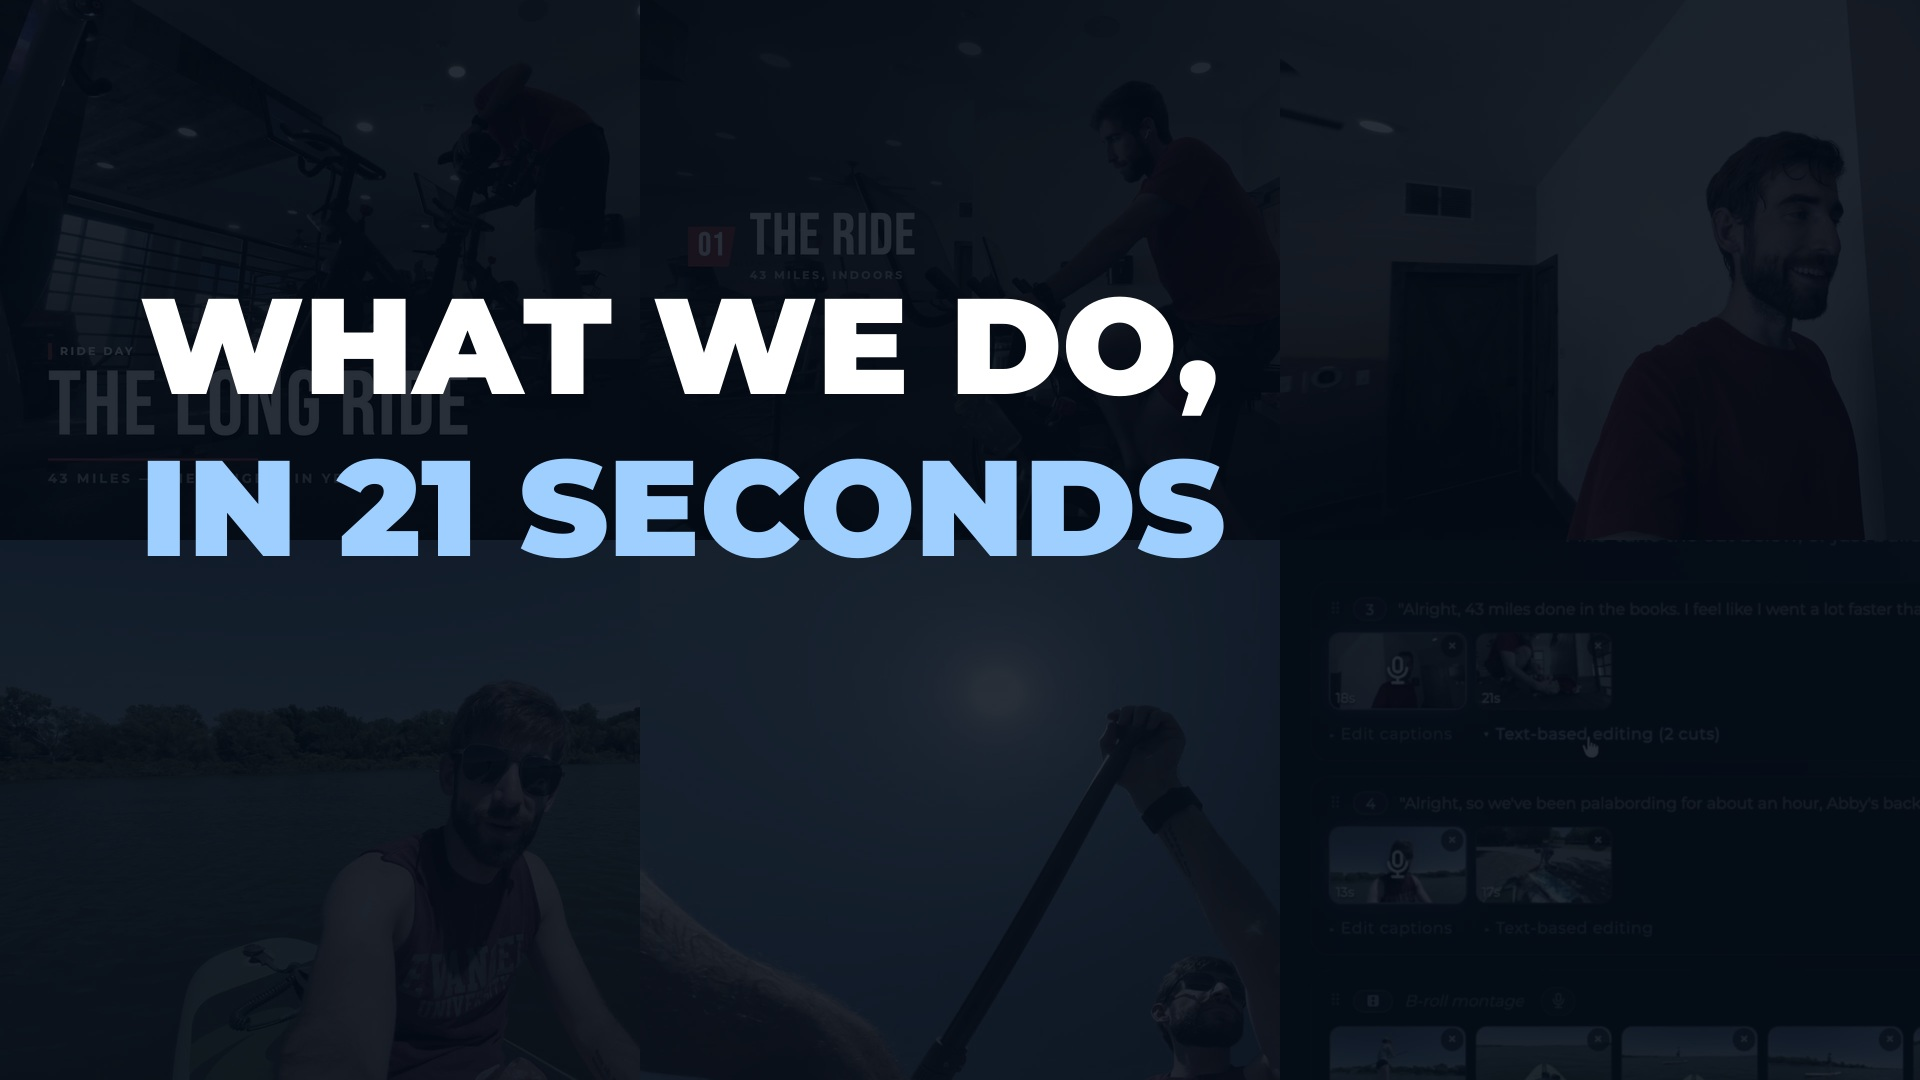
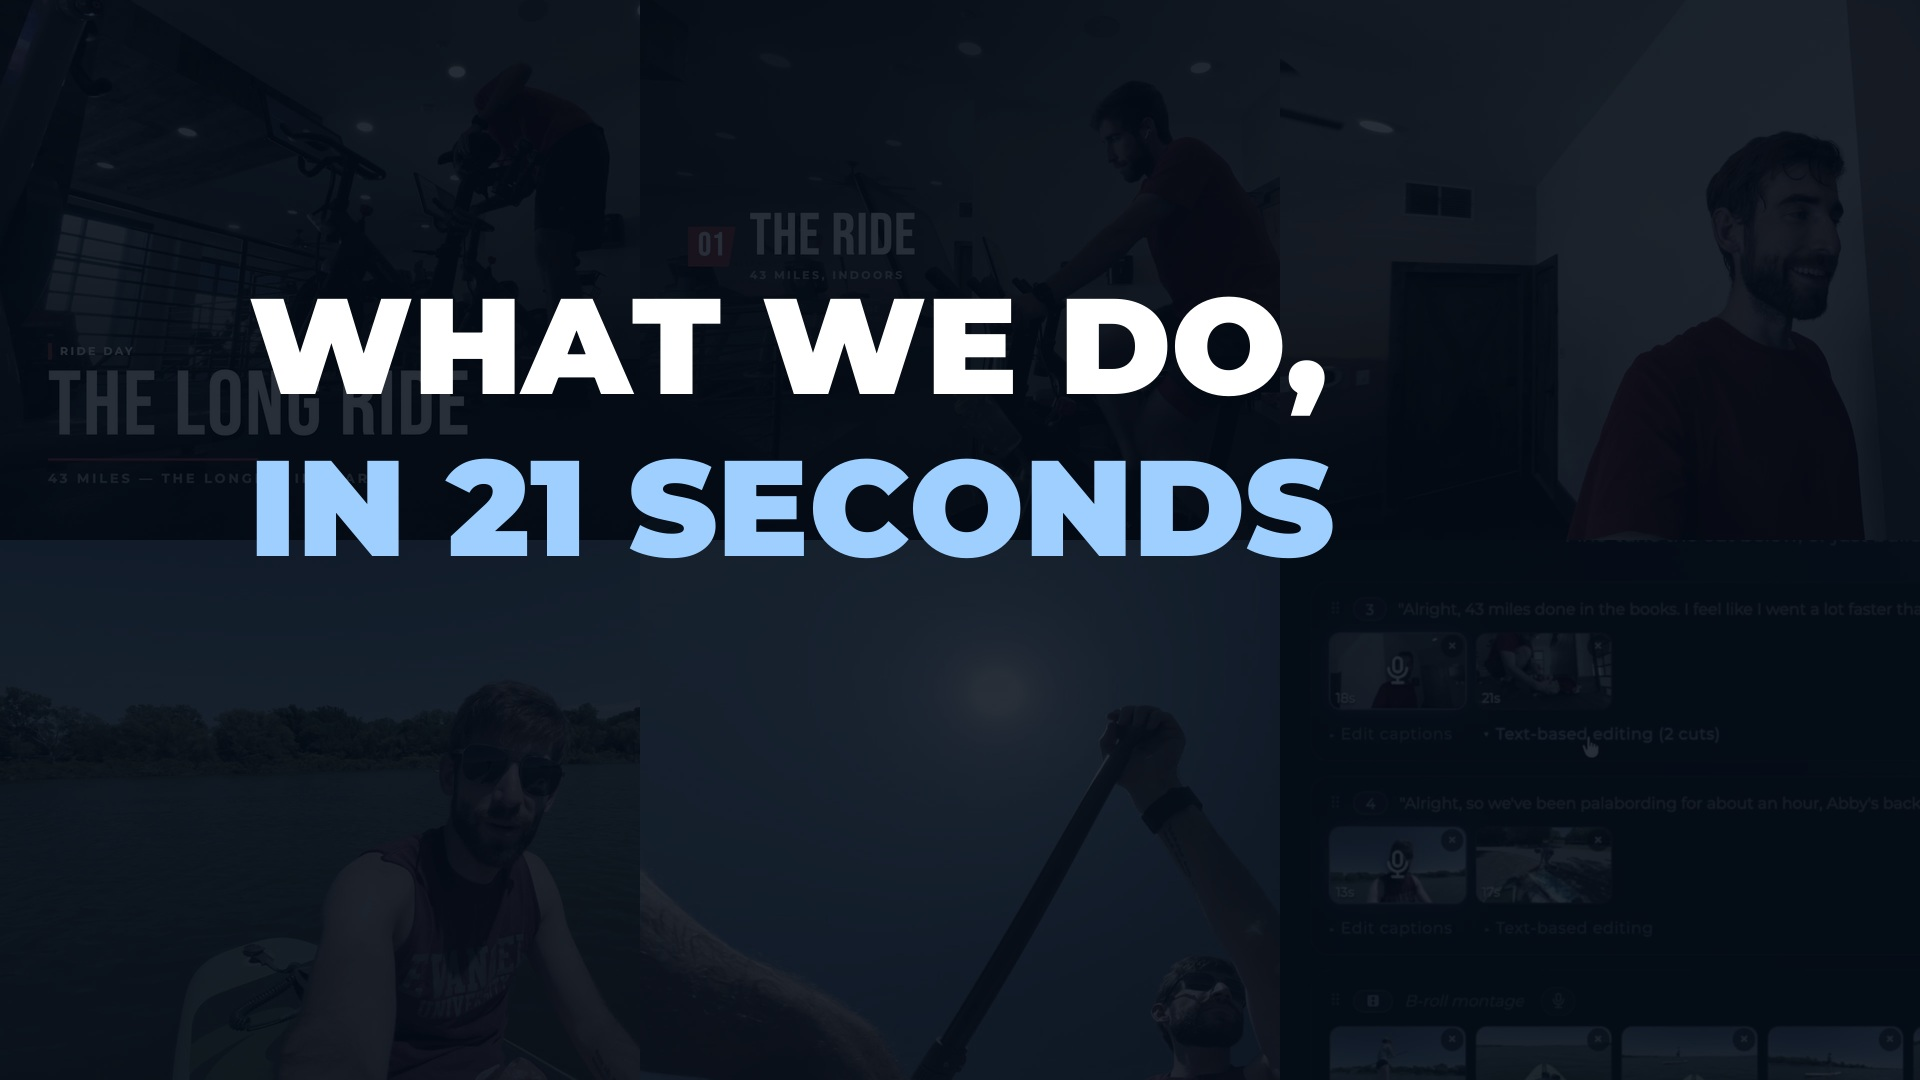
Centre the VSL poster's type and play button as a group

Changed region(s): [[0.0625, 0.275, 0.6875, 0.3972], [0.0625, 0.4278, 0.7188, 0.5194]]

diff --git a/services.html b/services.html
@@ -310,7 +310,7 @@
     .svc-vsl img { position: absolute; inset: 0; width: 100%; height: 100%; object-fit: cover; }
     .svc-vsl iframe { position: absolute; inset: 0; width: 100%; height: 100%; border: 0; }
     .svc-vsl-play {
-      position: absolute; top: 40%; left: 77.1%; transform: translate(-50%, -50%);
+      position: absolute; top: 40%; left: 82.7%; transform: translate(-50%, -50%);
       width: 76px; height: 76px; border-radius: 50%;
       display: flex; align-items: center; justify-content: center;
       background: rgba(50,110,225,0.92);
@@ -536,7 +536,7 @@
     <section class="section svc-vsl-section">
       <div class="section-inner">
         <button class="svc-vsl" id="svc-vsl" type="button" data-reveal aria-label="Play the overview video">
-          <img src="assets/showcase/vsl-poster.jpg?v=2" alt="" width="1920" height="1080" loading="lazy">
+          <img src="assets/showcase/vsl-poster.jpg?v=3" alt="" width="1920" height="1080" loading="lazy">
           <span class="svc-vsl-play" aria-hidden="true">
             <svg viewBox="0 0 24 24" fill="currentColor"><path d="M8 5.2v13.6L19 12 8 5.2z"/></svg>
           </span>
